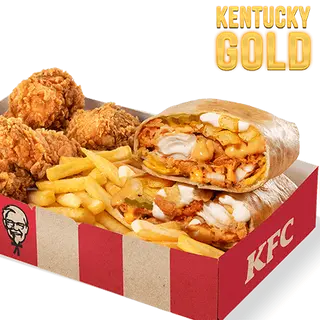
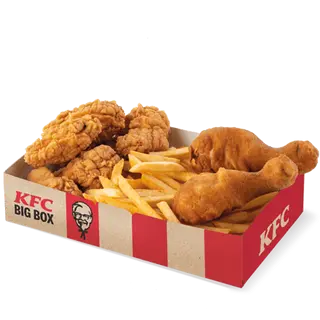
Replace duplicate KFC menu items

diff --git a/shop/index.html b/shop/index.html
@@ -156,7 +156,7 @@ body.detail-mode #app{padding-bottom:84px}
 <div id="toast" class="toast" style="display:none"></div>
 <div id="qrModal" style="display:none;position:fixed;top:0;left:0;width:100%;height:100%;background:rgba(0,0,0,.5);z-index:999;align-items:center;justify-content:center" onclick="if(event.target===this)closeQR()"><div style="background:var(--card);border-radius:var(--radius);padding:24px;text-align:center;max-width:320px;width:90%"><h3 style="margin-bottom:8px">扫码进入店铺</h3><p style="font-size:12px;color:var(--text-secondary);margin-bottom:16px">截图分享给朋友，扫码即达</p><img id="qrModalImg" src="" alt="QR Code" style="width:200px;height:200px;border-radius:12px;box-shadow:var(--shadow)"><p class="url" id="qrModalUrl" style="margin-top:12px"></p><button class="btn btn-primary" onclick="closeQR()" style="margin-top:16px;padding:8px 32px">关闭</button></div></div>
 <script>
-const PRODUCTS=[{"id":1,"store":"shop","name":"Rosa 水 6L","price":220,"cat":"Rosa 水","img":"images/a.jpg","desc":"大容量 6L 装，清甜可口，适合家庭和办公室日常饮用。","sales":85},{"id":2,"store":"shop","name":"Rosa 水 500ml","price":60,"cat":"Rosa 水","img":"images/b.jpg","desc":"便携 500ml，随身携带，随时随地补充水分。","sales":0},{"id":13,"store":"shop","name":"Rosa 水 1.5L","price":85,"cat":"Rosa 水","img":"images/rosa-1.5l.png","desc":"1.5L 装天然饮用水，便携易带。","sales":0},{"id":3,"store":"shop","name":"听装可乐 250ml","price":100,"cat":"可乐","img":"images/c.jpg","desc":"经典听装可乐，冰镇后口感更佳，一口畅快。","sales":0},{"id":4,"store":"shop","name":"可乐 2L","price":280,"cat":"可乐","img":"images/d.jpg","desc":"大瓶 2L 装，聚会派对分享首选，气足味浓。","sales":0},{"id":14,"store":"shop","name":"Imlek Moja Kravica 牛奶 1.5L","price":170,"cat":"牛奶","img":"images/milk.png","desc":"2.8% 乳脂，1.5L 长效灭菌牛奶，口感香浓。","sales":0},{"id":21,"store":"kfc","name":"8块香辣鸡翅","price":810,"cat":"鸡肉小食","img":"images/kfc07.jpg","desc":"Hot Wings 香辣鸡翅，外皮酥脆、口感新鲜，带有浓郁微辣风味。","sales":0},{"id":22,"store":"kfc","name":"5块鸡柳","price":810,"cat":"鸡肉小食","img":"images/kfc08.jpg","desc":"香辣腌制鸡柳，双层裹粉炸制，更加酥脆可口。","sales":0},{"id":23,"store":"kfc","name":"3块肯塔基炸鸡","price":780,"cat":"鸡肉小食","img":"images/kfc09.jpg","desc":"下单后现做，从头手工准备，保持新鲜和经典风味。","sales":0},{"id":24,"store":"kfc","name":"5块香辣鸡翅","price":710,"cat":"鸡肉小食","img":"images/kfc10.jpg","desc":"Hot Wings 香辣鸡翅，酥脆、新鲜，辣味恰到好处。","sales":0},{"id":25,"store":"kfc","name":"甜辣酱","price":90,"cat":"酱料","img":"images/kfc-sauce01.jpg","desc":"甜辣口味酱料，适合搭配鸡柳、鸡翅和薯条。","sales":0},{"id":26,"store":"kfc","name":"Kentucky Gold 酱","price":90,"cat":"酱料","img":"images/kfc-sauce02.jpg","desc":"Kentucky Gold 风味酱，口感香浓顺滑。","sales":0},{"id":27,"store":"kfc","name":"番茄酱","price":90,"cat":"酱料","img":"images/kfc-sauce03.jpg","desc":"经典番茄酱，搭配薯条和炸鸡都很合适。","sales":0},{"id":28,"store":"kfc","name":"蒜香蛋黄酱","price":90,"cat":"酱料","img":"images/kfc-sauce04.jpg","desc":"白蒜风味蛋黄酱，香浓顺口，适合搭配炸物。","sales":0},{"id":5,"store":"kfc","name":"双层巨霸套餐","price":1550,"cat":"KFC","img":"images/kfc1.jpg","desc":"双层巨霸汉堡、 5 只鲜辣鸡翅/3 根鸡柳、大薯条。","sales":2},{"id":6,"store":"kfc","name":"肯塔基金鸡肉卷套餐","price":1450,"cat":"KFC","img":"images/kfc2.jpg","desc":"香脆鸡肉卷（卷饼包裹香脆鸡肉，搭配特制酱料），与鸡翅、薯条一起享用。","sales":2},{"id":7,"store":"kfc","name":"肯塔基金双层巨霸套餐","price":1450,"cat":"KFC","img":"images/kfc3.jpg","desc":"肯塔基金双层巨霸汉堡搭配 5 只鲜辣鸡翅/3 根鸡柳，附送任选配菜。","sales":2},{"id":8,"store":"kfc","name":"双层鲜辣套餐","price":1400,"cat":"KFC","img":"images/kfc4.jpg","desc":"双层鲜辣霸汉堡、 5 只鲜辣鸡翅/3 根鸡柳、薯条。","sales":2},{"id":9,"store":"kfc","name":"30 根鸡柳 + 4 份薯条桶","price":3290,"cat":"KFC","img":"images/kfc5.jpg","desc":"鲜嫩鸡肉鸡柳一桶（3 0 根），香脆热辣，搭配 4 份薯条，多人分享首选。","sales":0},{"id":10,"store":"kfc","name":"30 只鲜辣鸡翅 + 4 份薯条桶","price":2690,"cat":"KFC","img":"images/kfc6.jpg","desc":"30 只鲜辣热鸡翅一桶，搭配 4 份薯条，鲜香辣爽，热鸡翅控示。","sales":0},{"id":11,"store":"kfc","name":"经典 XL 鸡肉桶","price":2690,"cat":"KFC","img":"images/kfc7.jpg","desc":"真正的盛宴！XL 桶内含 4 块多汁鲜鸡、 8 块鲜辣鸡翅等鸡肉享用。","sales":0},{"id":12,"store":"kfc","name":"30 只鲜辣鸡翅桶","price":2390,"cat":"KFC","img":"images/kfc8.jpg","desc":"一桶 30 只鲜辣鸡翅，热、多汁、鲜嫩，是午餐或聚会的完美选择。","sales":0},{"id":29,"store":"kfc","name":"Kentucky Gold 鸡肉卷盒餐","price":1450,"cat":"套餐盒","img":"images/kfc29.jpg","desc":"鸡肉卷配香辣鸡翅和薯条。","sales":0},{"id":30,"store":"kfc","name":"Kentucky Gold 巨霸盒餐","price":1450,"cat":"套餐盒","img":"images/kfc30.jpg","desc":"巨霸鸡肉汉堡，配香辣鸡翅或鸡柳和配菜。","sales":0},{"id":31,"store":"kfc","name":"托斯塔达盒餐","price":1350,"cat":"套餐盒","img":"images/kfc31.jpg","desc":"托斯塔达鸡肉三明治，配香辣鸡翅和薯条。","sales":0},{"id":32,"store":"kfc","name":"巨霸盒餐","price":1350,"cat":"套餐盒","img":"images/kfc32.jpg","desc":"巨霸鸡肉三明治，配香辣鸡翅和薯条。","sales":0},{"id":33,"store":"kfc","name":"劲脆鸡肉卷盒餐","price":1200,"cat":"套餐盒","img":"images/kfc33.jpg","desc":"劲脆鸡肉卷，配香辣鸡翅和薯条。","sales":0},{"id":34,"store":"kfc","name":"芝士鸡肉汉堡盒餐","price":1200,"cat":"套餐盒","img":"images/kfc34.jpg","desc":"芝士鸡肉汉堡，配香辣鸡翅和薯条。","sales":0}];
+const PRODUCTS=[{"id":1,"store":"shop","name":"Rosa 水 6L","price":220,"cat":"Rosa 水","img":"images/a.jpg","desc":"大容量 6L 装，清甜可口，适合家庭和办公室日常饮用。","sales":85},{"id":2,"store":"shop","name":"Rosa 水 500ml","price":60,"cat":"Rosa 水","img":"images/b.jpg","desc":"便携 500ml，随身携带，随时随地补充水分。","sales":0},{"id":13,"store":"shop","name":"Rosa 水 1.5L","price":85,"cat":"Rosa 水","img":"images/rosa-1.5l.png","desc":"1.5L 装天然饮用水，便携易带。","sales":0},{"id":3,"store":"shop","name":"听装可乐 250ml","price":100,"cat":"可乐","img":"images/c.jpg","desc":"经典听装可乐，冰镇后口感更佳，一口畅快。","sales":0},{"id":4,"store":"shop","name":"可乐 2L","price":280,"cat":"可乐","img":"images/d.jpg","desc":"大瓶 2L 装，聚会派对分享首选，气足味浓。","sales":0},{"id":14,"store":"shop","name":"Imlek Moja Kravica 牛奶 1.5L","price":170,"cat":"牛奶","img":"images/milk.png","desc":"2.8% 乳脂，1.5L 长效灭菌牛奶，口感香浓。","sales":0},{"id":21,"store":"kfc","name":"8块香辣鸡翅","price":810,"cat":"鸡肉小食","img":"images/kfc07.jpg","desc":"Hot Wings 香辣鸡翅，外皮酥脆、口感新鲜，带有浓郁微辣风味。","sales":0},{"id":22,"store":"kfc","name":"5块鸡柳","price":810,"cat":"鸡肉小食","img":"images/kfc08.jpg","desc":"香辣腌制鸡柳，双层裹粉炸制，更加酥脆可口。","sales":0},{"id":23,"store":"kfc","name":"3块肯塔基炸鸡","price":780,"cat":"鸡肉小食","img":"images/kfc09.jpg","desc":"下单后现做，从头手工准备，保持新鲜和经典风味。","sales":0},{"id":24,"store":"kfc","name":"5块香辣鸡翅","price":710,"cat":"鸡肉小食","img":"images/kfc10.jpg","desc":"Hot Wings 香辣鸡翅，酥脆、新鲜，辣味恰到好处。","sales":0},{"id":25,"store":"kfc","name":"甜辣酱","price":90,"cat":"酱料","img":"images/kfc-sauce01.jpg","desc":"甜辣口味酱料，适合搭配鸡柳、鸡翅和薯条。","sales":0},{"id":26,"store":"kfc","name":"Kentucky Gold 酱","price":90,"cat":"酱料","img":"images/kfc-sauce02.jpg","desc":"Kentucky Gold 风味酱，口感香浓顺滑。","sales":0},{"id":27,"store":"kfc","name":"番茄酱","price":90,"cat":"酱料","img":"images/kfc-sauce03.jpg","desc":"经典番茄酱，搭配薯条和炸鸡都很合适。","sales":0},{"id":28,"store":"kfc","name":"蒜香蛋黄酱","price":90,"cat":"酱料","img":"images/kfc-sauce04.jpg","desc":"白蒜风味蛋黄酱，香浓顺口，适合搭配炸物。","sales":0},{"id":5,"store":"kfc","name":"双层巨霸套餐","price":1550,"cat":"KFC","img":"images/kfc1.jpg","desc":"双层巨霸汉堡、 5 只鲜辣鸡翅/3 根鸡柳、大薯条。","sales":2},{"id":6,"store":"kfc","name":"肯塔基金鸡肉卷套餐","price":1450,"cat":"KFC","img":"images/kfc2.jpg","desc":"香脆鸡肉卷（卷饼包裹香脆鸡肉，搭配特制酱料），与鸡翅、薯条一起享用。","sales":2},{"id":7,"store":"kfc","name":"肯塔基金双层巨霸套餐","price":1450,"cat":"KFC","img":"images/kfc3.jpg","desc":"肯塔基金双层巨霸汉堡搭配 5 只鲜辣鸡翅/3 根鸡柳，附送任选配菜。","sales":2},{"id":8,"store":"kfc","name":"双层鲜辣套餐","price":1400,"cat":"KFC","img":"images/kfc4.jpg","desc":"双层鲜辣霸汉堡、 5 只鲜辣鸡翅/3 根鸡柳、薯条。","sales":2},{"id":9,"store":"kfc","name":"30 根鸡柳 + 4 份薯条桶","price":3290,"cat":"KFC","img":"images/kfc5.jpg","desc":"鲜嫩鸡肉鸡柳一桶（3 0 根），香脆热辣，搭配 4 份薯条，多人分享首选。","sales":0},{"id":10,"store":"kfc","name":"30 只鲜辣鸡翅 + 4 份薯条桶","price":2690,"cat":"KFC","img":"images/kfc6.jpg","desc":"30 只鲜辣热鸡翅一桶，搭配 4 份薯条，鲜香辣爽，热鸡翅控示。","sales":0},{"id":11,"store":"kfc","name":"经典 XL 鸡肉桶","price":2690,"cat":"KFC","img":"images/kfc7.jpg","desc":"真正的盛宴！XL 桶内含 4 块多汁鲜鸡、 8 块鲜辣鸡翅等鸡肉享用。","sales":0},{"id":12,"store":"kfc","name":"30 只鲜辣鸡翅桶","price":2390,"cat":"KFC","img":"images/kfc8.jpg","desc":"一桶 30 只鲜辣鸡翅，热、多汁、鲜嫩，是午餐或聚会的完美选择。","sales":0},{"id":29,"store":"kfc","name":"经典套餐盒","price":1200,"cat":"套餐盒","img":"images/kfc29.jpg","desc":"2 块肯塔基炸鸡，5 只香辣鸡翅和薯条。","sales":0},{"id":30,"store":"kfc","name":"鲜辣鸡肉汉堡套餐盒","price":1200,"cat":"套餐盒","img":"images/kfc30.jpg","desc":"鲜辣鸡肉汉堡，5 只香辣鸡翅和薯条。","sales":0},{"id":31,"store":"kfc","name":"托斯塔达盒餐","price":1350,"cat":"套餐盒","img":"images/kfc31.jpg","desc":"托斯塔达鸡肉三明治，配香辣鸡翅和薯条。","sales":0},{"id":32,"store":"kfc","name":"巨霸盒餐","price":1350,"cat":"套餐盒","img":"images/kfc32.jpg","desc":"巨霸鸡肉三明治，配香辣鸡翅和薯条。","sales":0},{"id":33,"store":"kfc","name":"劲脆鸡肉卷盒餐","price":1200,"cat":"套餐盒","img":"images/kfc33.jpg","desc":"劲脆鸡肉卷，配香辣鸡翅和薯条。","sales":0},{"id":34,"store":"kfc","name":"芝士鸡肉汉堡盒餐","price":1200,"cat":"套餐盒","img":"images/kfc34.jpg","desc":"芝士鸡肉汉堡，配香辣鸡翅和薯条。","sales":0}];
 const CATS=["全部","Rosa 水","可乐","牛奶","KFC","鸡肉小食","酱料","套餐盒"];
 const STORES=[{"id":"shop","name":"Shop · 饮品店","desc":"Rosa 天然水 · 可乐汽水 · 冰镇畅饮","cover":"images/a.jpg","cats":["全部","Rosa 水","可乐","牛奶"]},{"id":"kfc","name":"KFC · 炸鸡快餐","desc":"炸鸡套餐 · 鸡肉小食 · 酱料已上架 · 共 22 件商品","cover":"images/kfc1.jpg","cats":["全部","KFC","套餐盒","鸡肉小食","酱料"]}];
 let currentStore=null;
